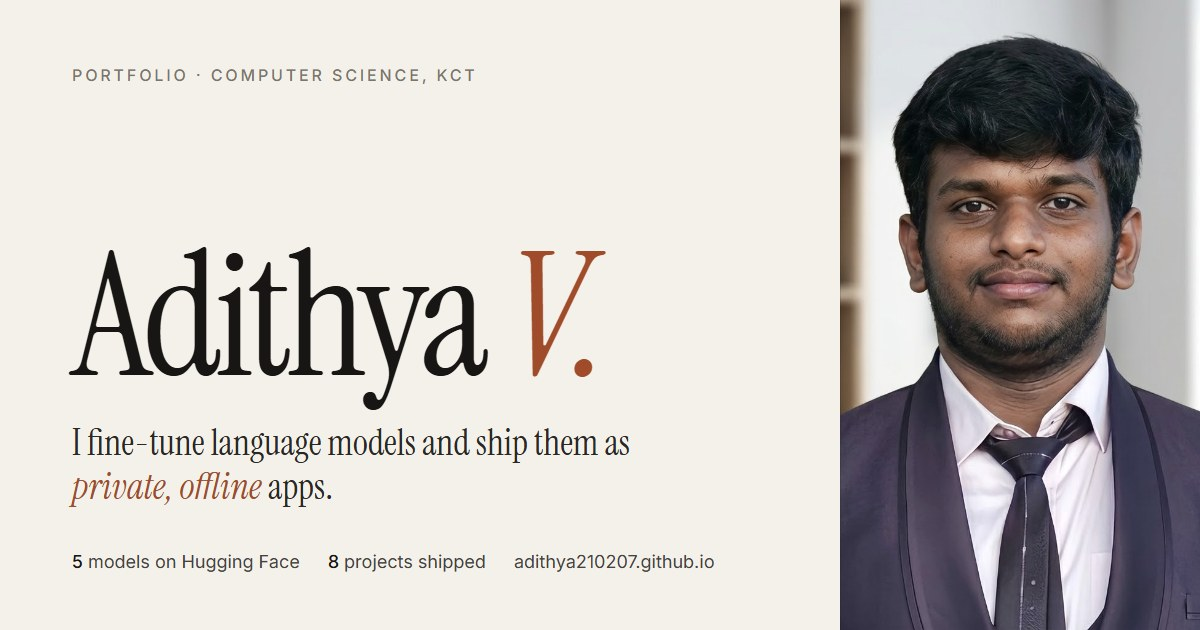
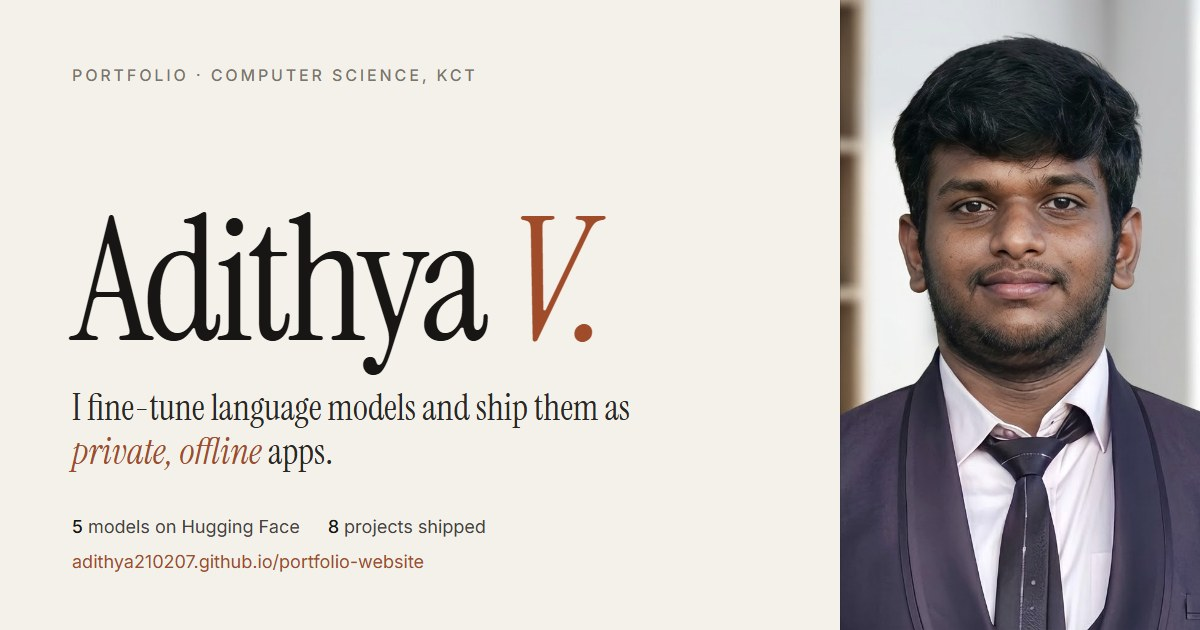
Move the site to /portfolio-website/
The Adithya210207.github.io repo is being retired, so canonical links,
sitemap, robots.txt, link previews, structured data, project pages and the
404 page now use https://adithya210207.github.io/portfolio-website/.

diff --git a/index.html b/index.html
@@ -8,18 +8,18 @@
 <meta property="og:title" content="Adithya V (Ryuu) — AI and full-stack developer, KCT Coimbatore">
 <meta property="og:description" content="Private, offline AI, and the web and firmware around it.">
 <meta property="og:type" content="website">
-<meta property="og:url" content="https://adithya210207.github.io/">
+<meta property="og:url" content="https://adithya210207.github.io/portfolio-website/">
 <meta property="og:site_name" content="Adithya V">
-<meta property="og:image" content="https://adithya210207.github.io/img/share.jpg">
+<meta property="og:image" content="https://adithya210207.github.io/portfolio-website/img/share.jpg">
 <meta property="og:image:width" content="1200">
 <meta property="og:image:height" content="630">
 <meta property="og:image:alt" content="Adithya V. I fine-tune language models and ship them as private, offline apps.">
 <meta name="twitter:card" content="summary_large_image">
 <meta name="twitter:title" content="Adithya V (Ryuu) — AI and full-stack developer, KCT Coimbatore">
 <meta name="twitter:description" content="Private, offline AI, and the web and firmware around it.">
-<meta name="twitter:image" content="https://adithya210207.github.io/img/share.jpg">
-<link rel="canonical" href="https://adithya210207.github.io/">
-<script type="application/ld+json">{"@context":"https://schema.org","@graph":[{"@type":"WebSite","@id":"https://adithya210207.github.io/#site","name":"Adithya V","alternateName":["Adithya V Portfolio","Ryuu"],"url":"https://adithya210207.github.io/"},{"@type":"ProfilePage","@id":"https://adithya210207.github.io/#page","url":"https://adithya210207.github.io/","name":"Adithya V (Ryuu) — AI and full-stack developer, KCT Coimbatore","isPartOf":{"@id":"https://adithya210207.github.io/#site"},"mainEntity":{"@id":"https://adithya210207.github.io/#adithya"},"dateModified":"2026-11-14","hasPart":[{"@type":"WebPage","name":"TQQ Chatbox","url":"https://adithya210207.github.io/projects/tqq-chatbox/"},{"@type":"WebPage","name":"Ryuu Explainer AI","url":"https://adithya210207.github.io/projects/ryuu-explainer-ai/"},{"@type":"WebPage","name":"Personality AI","url":"https://adithya210207.github.io/projects/personality-ai-chatbox/"},{"@type":"WebPage","name":"PawFinder","url":"https://adithya210207.github.io/projects/pawfinder/"},{"@type":"WebPage","name":"Automobile Lab","url":"https://adithya210207.github.io/projects/automobile-lab/"},{"@type":"WebPage","name":"CS GPT for CBSE 11 & 12","url":"https://adithya210207.github.io/projects/cs-gpt/"},{"@type":"WebPage","name":"Ryuu v1 models","url":"https://adithya210207.github.io/projects/ryuu-v1/"}]},{"@type":"Person","@id":"https://adithya210207.github.io/#adithya","name":"Adithya V","alternateName":["Ryuu","Adithya210207","Adithya210207-Ryuu"],"url":"https://adithya210207.github.io/","image":"https://adithya210207.github.io/img/portrait.jpg","jobTitle":"Computer science student, AI and full-stack developer","description":"Fine-tunes language models and ships them as private, offline apps.","email":"mailto:adithya210207.v@gmail.com","alumniOf":{"@type":"CollegeOrUniversity","name":"Kumaraguru College of Technology","alternateName":"KCT"},"address":{"@type":"PostalAddress","addressLocality":"Coimbatore","addressRegion":"Tamil Nadu","addressCountry":"IN"},"knowsAbout":["Fine-tuning language models","QLoRA","Ollama","GGUF","Llama-3","JavaFX","Python","Full-stack web development","ARM Cortex-M4 firmware","Arduino"],"sameAs":["https://github.com/Adithya210207","https://huggingface.co/Adithya210207-Ryuu","https://www.linkedin.com/in/adithya210207/"]}]}</script>
+<meta name="twitter:image" content="https://adithya210207.github.io/portfolio-website/img/share.jpg">
+<link rel="canonical" href="https://adithya210207.github.io/portfolio-website/">
+<script type="application/ld+json">{"@context":"https://schema.org","@graph":[{"@type":"WebSite","@id":"https://adithya210207.github.io/portfolio-website/#site","name":"Adithya V","alternateName":["Adithya V Portfolio","Ryuu"],"url":"https://adithya210207.github.io/portfolio-website/"},{"@type":"ProfilePage","@id":"https://adithya210207.github.io/portfolio-website/#page","url":"https://adithya210207.github.io/portfolio-website/","name":"Adithya V (Ryuu) — AI and full-stack developer, KCT Coimbatore","isPartOf":{"@id":"https://adithya210207.github.io/portfolio-website/#site"},"mainEntity":{"@id":"https://adithya210207.github.io/portfolio-website/#adithya"},"dateModified":"2026-11-14","hasPart":[{"@type":"WebPage","name":"TQQ Chatbox","url":"https://adithya210207.github.io/portfolio-website/projects/tqq-chatbox/"},{"@type":"WebPage","name":"Ryuu Explainer AI","url":"https://adithya210207.github.io/portfolio-website/projects/ryuu-explainer-ai/"},{"@type":"WebPage","name":"Personality AI","url":"https://adithya210207.github.io/portfolio-website/projects/personality-ai-chatbox/"},{"@type":"WebPage","name":"PawFinder","url":"https://adithya210207.github.io/portfolio-website/projects/pawfinder/"},{"@type":"WebPage","name":"Automobile Lab","url":"https://adithya210207.github.io/portfolio-website/projects/automobile-lab/"},{"@type":"WebPage","name":"CS GPT for CBSE 11 & 12","url":"https://adithya210207.github.io/portfolio-website/projects/cs-gpt/"},{"@type":"WebPage","name":"Ryuu v1 models","url":"https://adithya210207.github.io/portfolio-website/projects/ryuu-v1/"}]},{"@type":"Person","@id":"https://adithya210207.github.io/portfolio-website/#adithya","name":"Adithya V","alternateName":["Ryuu","Adithya210207","Adithya210207-Ryuu"],"url":"https://adithya210207.github.io/portfolio-website/","image":"https://adithya210207.github.io/portfolio-website/img/portrait.jpg","jobTitle":"Computer science student, AI and full-stack developer","description":"Fine-tunes language models and ships them as private, offline apps.","email":"mailto:adithya210207.v@gmail.com","alumniOf":{"@type":"CollegeOrUniversity","name":"Kumaraguru College of Technology","alternateName":"KCT"},"address":{"@type":"PostalAddress","addressLocality":"Coimbatore","addressRegion":"Tamil Nadu","addressCountry":"IN"},"knowsAbout":["Fine-tuning language models","QLoRA","Ollama","GGUF","Llama-3","JavaFX","Python","Full-stack web development","ARM Cortex-M4 firmware","Arduino"],"sameAs":["https://github.com/Adithya210207","https://huggingface.co/Adithya210207-Ryuu","https://www.linkedin.com/in/adithya210207/"]}]}</script>
 <meta name="theme-color" content="#f4f1ea">
 <link rel="icon" href="favicon.svg" type="image/svg+xml">
 <link rel="preconnect" href="https://fonts.googleapis.com">

diff --git a/projects/personality-ai-chatbox/index.html b/projects/personality-ai-chatbox/index.html
@@ -6,18 +6,18 @@
 <title>Personality AI Chatbox — anime character AI chatbot | Adithya V</title>
 <meta name="description" content="Personality AI Chatbox by Adithya V: an offline anime character chatbot with five personas, each with its own voice, theme and avatar, a two-character Trio Chat and live streaming replies from a local model.">
 <meta name="author" content="Adithya V">
-<link rel="canonical" href="https://adithya210207.github.io/projects/personality-ai-chatbox/">
+<link rel="canonical" href="https://adithya210207.github.io/portfolio-website/projects/personality-ai-chatbox/">
 <meta property="og:type" content="article">
 <meta property="og:site_name" content="Adithya V">
-<meta property="og:url" content="https://adithya210207.github.io/projects/personality-ai-chatbox/">
+<meta property="og:url" content="https://adithya210207.github.io/portfolio-website/projects/personality-ai-chatbox/">
 <meta property="og:title" content="Personality AI Chatbox — anime character AI chatbot | Adithya V">
 <meta property="og:description" content="Personality AI Chatbox by Adithya V: an offline anime character chatbot with five personas, each with its own voice, theme and avatar, a two-character Trio Chat and live streaming replies from a local model.">
-<meta property="og:image" content="https://adithya210207.github.io/img/work/persona-rem.jpg">
+<meta property="og:image" content="https://adithya210207.github.io/portfolio-website/img/work/persona-rem.jpg">
 <meta property="og:image:alt" content="Chatting with Rem in Personality AI, with her portrait and bond status beside the conversation">
 <meta name="twitter:card" content="summary_large_image">
 <meta name="twitter:title" content="Personality AI Chatbox — anime character AI chatbot | Adithya V">
 <meta name="twitter:description" content="Personality AI Chatbox by Adithya V: an offline anime character chatbot with five personas, each with its own voice, theme and avatar, a two-character Trio Chat and live streaming replies from a local model.">
-<meta name="twitter:image" content="https://adithya210207.github.io/img/work/persona-rem.jpg">
+<meta name="twitter:image" content="https://adithya210207.github.io/portfolio-website/img/work/persona-rem.jpg">
 <meta name="theme-color" content="#f4f1ea">
 <link rel="icon" href="../../favicon.svg" type="image/svg+xml">
 <link rel="preconnect" href="https://fonts.googleapis.com">
@@ -26,8 +26,8 @@
 <link rel="stylesheet" href="../../css/style.css">
 <link rel="stylesheet" href="../project.css">
 <script>try{var t=localStorage.getItem('folio-theme');if(t)document.documentElement.dataset.theme=t}catch(e){}</script>
-<script type="application/ld+json">{"@context":"https://schema.org","@type":"SoftwareApplication","name":"Personality AI","url":"https://adithya210207.github.io/projects/personality-ai-chatbox/","description":"Personality AI Chatbox by Adithya V: an offline anime character chatbot with five personas, each with its own voice, theme and avatar, a two-character Trio Chat and live streaming replies from a local model.","image":"https://adithya210207.github.io/img/work/persona-rem.jpg","applicationCategory":"DeveloperApplication","author":{"@type":"Person","name":"Adithya V","alternateName":["Ryuu","Adithya210207"],"url":"https://adithya210207.github.io/"},"sameAs":["https://github.com/Adithya210207/personality-ai-chatbot"],"offers":{"@type":"Offer","price":"0","priceCurrency":"INR"}}</script>
-<script type="application/ld+json">{"@context":"https://schema.org","@type":"BreadcrumbList","itemListElement":[{"@type":"ListItem","position":1,"name":"Adithya V","item":"https://adithya210207.github.io/"},{"@type":"ListItem","position":2,"name":"Work","item":"https://adithya210207.github.io/#work"},{"@type":"ListItem","position":3,"name":"Personality AI","item":"https://adithya210207.github.io/projects/personality-ai-chatbox/"}]}</script>
+<script type="application/ld+json">{"@context":"https://schema.org","@type":"SoftwareApplication","name":"Personality AI","url":"https://adithya210207.github.io/portfolio-website/projects/personality-ai-chatbox/","description":"Personality AI Chatbox by Adithya V: an offline anime character chatbot with five personas, each with its own voice, theme and avatar, a two-character Trio Chat and live streaming replies from a local model.","image":"https://adithya210207.github.io/portfolio-website/img/work/persona-rem.jpg","applicationCategory":"DeveloperApplication","author":{"@type":"Person","name":"Adithya V","alternateName":["Ryuu","Adithya210207"],"url":"https://adithya210207.github.io/portfolio-website/"},"sameAs":["https://github.com/Adithya210207/personality-ai-chatbot"],"offers":{"@type":"Offer","price":"0","priceCurrency":"INR"}}</script>
+<script type="application/ld+json">{"@context":"https://schema.org","@type":"BreadcrumbList","itemListElement":[{"@type":"ListItem","position":1,"name":"Adithya V","item":"https://adithya210207.github.io/portfolio-website/"},{"@type":"ListItem","position":2,"name":"Work","item":"https://adithya210207.github.io/portfolio-website/#work"},{"@type":"ListItem","position":3,"name":"Personality AI","item":"https://adithya210207.github.io/portfolio-website/projects/personality-ai-chatbox/"}]}</script>
 </head>
 <body class="pp">
 <header class="pp-top">

diff --git a/projects/tqq-chatbox/index.html b/projects/tqq-chatbox/index.html
@@ -6,18 +6,18 @@
 <title>TQQ Chatbox — offline AI chat with the five Nakano sisters | Adithya V</title>
 <meta name="description" content="TQQ Chatbox by Adithya V: a JavaFX desktop app where Ichika, Nino, Miku, Yotsuba and Itsuki from The Quintessential Quintuplets are each their own fine-tuned Llama-3 8B model, running fully offline with Ollama.">
 <meta name="author" content="Adithya V">
-<link rel="canonical" href="https://adithya210207.github.io/projects/tqq-chatbox/">
+<link rel="canonical" href="https://adithya210207.github.io/portfolio-website/projects/tqq-chatbox/">
 <meta property="og:type" content="article">
 <meta property="og:site_name" content="Adithya V">
-<meta property="og:url" content="https://adithya210207.github.io/projects/tqq-chatbox/">
+<meta property="og:url" content="https://adithya210207.github.io/portfolio-website/projects/tqq-chatbox/">
 <meta property="og:title" content="TQQ Chatbox — offline AI chat with the five Nakano sisters | Adithya V">
 <meta property="og:description" content="TQQ Chatbox by Adithya V: a JavaFX desktop app where Ichika, Nino, Miku, Yotsuba and Itsuki from The Quintessential Quintuplets are each their own fine-tuned Llama-3 8B model, running fully offline with Ollama.">
-<meta property="og:image" content="https://adithya210207.github.io/img/work/tqq-home.jpg">
+<meta property="og:image" content="https://adithya210207.github.io/portfolio-website/img/work/tqq-home.jpg">
 <meta property="og:image:alt" content="TQQ Chatbox home screen: five portrait panels, one for each Nakano sister">
 <meta name="twitter:card" content="summary_large_image">
 <meta name="twitter:title" content="TQQ Chatbox — offline AI chat with the five Nakano sisters | Adithya V">
 <meta name="twitter:description" content="TQQ Chatbox by Adithya V: a JavaFX desktop app where Ichika, Nino, Miku, Yotsuba and Itsuki from The Quintessential Quintuplets are each their own fine-tuned Llama-3 8B model, running fully offline with Ollama.">
-<meta name="twitter:image" content="https://adithya210207.github.io/img/work/tqq-home.jpg">
+<meta name="twitter:image" content="https://adithya210207.github.io/portfolio-website/img/work/tqq-home.jpg">
 <meta name="theme-color" content="#f4f1ea">
 <link rel="icon" href="../../favicon.svg" type="image/svg+xml">
 <link rel="preconnect" href="https://fonts.googleapis.com">
@@ -26,8 +26,8 @@
 <link rel="stylesheet" href="../../css/style.css">
 <link rel="stylesheet" href="../project.css">
 <script>try{var t=localStorage.getItem('folio-theme');if(t)document.documentElement.dataset.theme=t}catch(e){}</script>
-<script type="application/ld+json">{"@context":"https://schema.org","@type":"SoftwareApplication","name":"TQQ Chatbox","url":"https://adithya210207.github.io/projects/tqq-chatbox/","description":"TQQ Chatbox by Adithya V: a JavaFX desktop app where Ichika, Nino, Miku, Yotsuba and Itsuki from The Quintessential Quintuplets are each their own fine-tuned Llama-3 8B model, running fully offline with Ollama.","image":"https://adithya210207.github.io/img/work/tqq-home.jpg","applicationCategory":"DeveloperApplication","author":{"@type":"Person","name":"Adithya V","alternateName":["Ryuu","Adithya210207"],"url":"https://adithya210207.github.io/"},"sameAs":["https://github.com/Adithya210207/tqq-chatbox","https://huggingface.co/Adithya210207-Ryuu"],"offers":{"@type":"Offer","price":"0","priceCurrency":"INR"}}</script>
-<script type="application/ld+json">{"@context":"https://schema.org","@type":"BreadcrumbList","itemListElement":[{"@type":"ListItem","position":1,"name":"Adithya V","item":"https://adithya210207.github.io/"},{"@type":"ListItem","position":2,"name":"Work","item":"https://adithya210207.github.io/#work"},{"@type":"ListItem","position":3,"name":"TQQ Chatbox","item":"https://adithya210207.github.io/projects/tqq-chatbox/"}]}</script>
+<script type="application/ld+json">{"@context":"https://schema.org","@type":"SoftwareApplication","name":"TQQ Chatbox","url":"https://adithya210207.github.io/portfolio-website/projects/tqq-chatbox/","description":"TQQ Chatbox by Adithya V: a JavaFX desktop app where Ichika, Nino, Miku, Yotsuba and Itsuki from The Quintessential Quintuplets are each their own fine-tuned Llama-3 8B model, running fully offline with Ollama.","image":"https://adithya210207.github.io/portfolio-website/img/work/tqq-home.jpg","applicationCategory":"DeveloperApplication","author":{"@type":"Person","name":"Adithya V","alternateName":["Ryuu","Adithya210207"],"url":"https://adithya210207.github.io/portfolio-website/"},"sameAs":["https://github.com/Adithya210207/tqq-chatbox","https://huggingface.co/Adithya210207-Ryuu"],"offers":{"@type":"Offer","price":"0","priceCurrency":"INR"}}</script>
+<script type="application/ld+json">{"@context":"https://schema.org","@type":"BreadcrumbList","itemListElement":[{"@type":"ListItem","position":1,"name":"Adithya V","item":"https://adithya210207.github.io/portfolio-website/"},{"@type":"ListItem","position":2,"name":"Work","item":"https://adithya210207.github.io/portfolio-website/#work"},{"@type":"ListItem","position":3,"name":"TQQ Chatbox","item":"https://adithya210207.github.io/portfolio-website/projects/tqq-chatbox/"}]}</script>
 </head>
 <body class="pp">
 <header class="pp-top">

diff --git a/projects/automobile-lab/index.html b/projects/automobile-lab/index.html
@@ -6,18 +6,18 @@
 <title>Automobile Lab — Arduino speedometer to adaptive cruise control | Adithya V</title>
 <meta name="description" content="Automobile Lab by Adithya V: an Arduino and STM32 speedometer grown version by version into adaptive cruise control, with gear modes, a laser time-of-flight sensor and a live Web Serial dashboard.">
 <meta name="author" content="Adithya V">
-<link rel="canonical" href="https://adithya210207.github.io/projects/automobile-lab/">
+<link rel="canonical" href="https://adithya210207.github.io/portfolio-website/projects/automobile-lab/">
 <meta property="og:type" content="article">
 <meta property="og:site_name" content="Adithya V">
-<meta property="og:url" content="https://adithya210207.github.io/projects/automobile-lab/">
+<meta property="og:url" content="https://adithya210207.github.io/portfolio-website/projects/automobile-lab/">
 <meta property="og:title" content="Automobile Lab — Arduino speedometer to adaptive cruise control | Adithya V">
 <meta property="og:description" content="Automobile Lab by Adithya V: an Arduino and STM32 speedometer grown version by version into adaptive cruise control, with gear modes, a laser time-of-flight sensor and a live Web Serial dashboard.">
-<meta property="og:image" content="https://adithya210207.github.io/img/work/automobile-dashboard.jpg">
+<meta property="og:image" content="https://adithya210207.github.io/portfolio-website/img/work/automobile-dashboard.jpg">
 <meta property="og:image:alt" content="The live speedometer dashboard in Sport mode at 56 km/h">
 <meta name="twitter:card" content="summary_large_image">
 <meta name="twitter:title" content="Automobile Lab — Arduino speedometer to adaptive cruise control | Adithya V">
 <meta name="twitter:description" content="Automobile Lab by Adithya V: an Arduino and STM32 speedometer grown version by version into adaptive cruise control, with gear modes, a laser time-of-flight sensor and a live Web Serial dashboard.">
-<meta name="twitter:image" content="https://adithya210207.github.io/img/work/automobile-dashboard.jpg">
+<meta name="twitter:image" content="https://adithya210207.github.io/portfolio-website/img/work/automobile-dashboard.jpg">
 <meta name="theme-color" content="#f4f1ea">
 <link rel="icon" href="../../favicon.svg" type="image/svg+xml">
 <link rel="preconnect" href="https://fonts.googleapis.com">
@@ -26,8 +26,8 @@
 <link rel="stylesheet" href="../../css/style.css">
 <link rel="stylesheet" href="../project.css">
 <script>try{var t=localStorage.getItem('folio-theme');if(t)document.documentElement.dataset.theme=t}catch(e){}</script>
-<script type="application/ld+json">{"@context":"https://schema.org","@type":"SoftwareApplication","name":"Automobile Lab","url":"https://adithya210207.github.io/projects/automobile-lab/","description":"Automobile Lab by Adithya V: an Arduino and STM32 speedometer grown version by version into adaptive cruise control, with gear modes, a laser time-of-flight sensor and a live Web Serial dashboard.","image":"https://adithya210207.github.io/img/work/automobile-dashboard.jpg","applicationCategory":"DeveloperApplication","author":{"@type":"Person","name":"Adithya V","alternateName":["Ryuu","Adithya210207"],"url":"https://adithya210207.github.io/"},"sameAs":["https://github.com/Adithya210207/automobile-lab-projects"],"offers":{"@type":"Offer","price":"0","priceCurrency":"INR"}}</script>
-<script type="application/ld+json">{"@context":"https://schema.org","@type":"BreadcrumbList","itemListElement":[{"@type":"ListItem","position":1,"name":"Adithya V","item":"https://adithya210207.github.io/"},{"@type":"ListItem","position":2,"name":"Work","item":"https://adithya210207.github.io/#work"},{"@type":"ListItem","position":3,"name":"Automobile Lab","item":"https://adithya210207.github.io/projects/automobile-lab/"}]}</script>
+<script type="application/ld+json">{"@context":"https://schema.org","@type":"SoftwareApplication","name":"Automobile Lab","url":"https://adithya210207.github.io/portfolio-website/projects/automobile-lab/","description":"Automobile Lab by Adithya V: an Arduino and STM32 speedometer grown version by version into adaptive cruise control, with gear modes, a laser time-of-flight sensor and a live Web Serial dashboard.","image":"https://adithya210207.github.io/portfolio-website/img/work/automobile-dashboard.jpg","applicationCategory":"DeveloperApplication","author":{"@type":"Person","name":"Adithya V","alternateName":["Ryuu","Adithya210207"],"url":"https://adithya210207.github.io/portfolio-website/"},"sameAs":["https://github.com/Adithya210207/automobile-lab-projects"],"offers":{"@type":"Offer","price":"0","priceCurrency":"INR"}}</script>
+<script type="application/ld+json">{"@context":"https://schema.org","@type":"BreadcrumbList","itemListElement":[{"@type":"ListItem","position":1,"name":"Adithya V","item":"https://adithya210207.github.io/portfolio-website/"},{"@type":"ListItem","position":2,"name":"Work","item":"https://adithya210207.github.io/portfolio-website/#work"},{"@type":"ListItem","position":3,"name":"Automobile Lab","item":"https://adithya210207.github.io/portfolio-website/projects/automobile-lab/"}]}</script>
 </head>
 <body class="pp">
 <header class="pp-top">

diff --git a/projects/ryuu-explainer-ai/index.html b/projects/ryuu-explainer-ai/index.html
@@ -6,18 +6,18 @@
 <title>Ryuu Explainer AI — private offline AI coding assistant | Adithya V</title>
 <meta name="description" content="Ryuu Explainer AI by Adithya V: a private desktop AI that explains concepts, debugs code and writes it in any language, running on local models with Ollama, even on Intel Arc integrated graphics.">
 <meta name="author" content="Adithya V">
-<link rel="canonical" href="https://adithya210207.github.io/projects/ryuu-explainer-ai/">
+<link rel="canonical" href="https://adithya210207.github.io/portfolio-website/projects/ryuu-explainer-ai/">
 <meta property="og:type" content="article">
 <meta property="og:site_name" content="Adithya V">
-<meta property="og:url" content="https://adithya210207.github.io/projects/ryuu-explainer-ai/">
+<meta property="og:url" content="https://adithya210207.github.io/portfolio-website/projects/ryuu-explainer-ai/">
 <meta property="og:title" content="Ryuu Explainer AI — private offline AI coding assistant | Adithya V">
 <meta property="og:description" content="Ryuu Explainer AI by Adithya V: a private desktop AI that explains concepts, debugs code and writes it in any language, running on local models with Ollama, even on Intel Arc integrated graphics.">
-<meta property="og:image" content="https://adithya210207.github.io/img/work/ryuu-chat.jpg">
+<meta property="og:image" content="https://adithya210207.github.io/portfolio-website/img/work/ryuu-chat.jpg">
 <meta property="og:image:alt" content="Ryuu explaining recursion in Python with a worked factorial example, running on qwen2.5-coder 14B">
 <meta name="twitter:card" content="summary_large_image">
 <meta name="twitter:title" content="Ryuu Explainer AI — private offline AI coding assistant | Adithya V">
 <meta name="twitter:description" content="Ryuu Explainer AI by Adithya V: a private desktop AI that explains concepts, debugs code and writes it in any language, running on local models with Ollama, even on Intel Arc integrated graphics.">
-<meta name="twitter:image" content="https://adithya210207.github.io/img/work/ryuu-chat.jpg">
+<meta name="twitter:image" content="https://adithya210207.github.io/portfolio-website/img/work/ryuu-chat.jpg">
 <meta name="theme-color" content="#f4f1ea">
 <link rel="icon" href="../../favicon.svg" type="image/svg+xml">
 <link rel="preconnect" href="https://fonts.googleapis.com">
@@ -26,8 +26,8 @@
 <link rel="stylesheet" href="../../css/style.css">
 <link rel="stylesheet" href="../project.css">
 <script>try{var t=localStorage.getItem('folio-theme');if(t)document.documentElement.dataset.theme=t}catch(e){}</script>
-<script type="application/ld+json">{"@context":"https://schema.org","@type":"SoftwareApplication","name":"Ryuu Explainer AI","url":"https://adithya210207.github.io/projects/ryuu-explainer-ai/","description":"Ryuu Explainer AI by Adithya V: a private desktop AI that explains concepts, debugs code and writes it in any language, running on local models with Ollama, even on Intel Arc integrated graphics.","image":"https://adithya210207.github.io/img/work/ryuu-chat.jpg","applicationCategory":"DeveloperApplication","author":{"@type":"Person","name":"Adithya V","alternateName":["Ryuu","Adithya210207"],"url":"https://adithya210207.github.io/"},"sameAs":["https://github.com/Adithya210207/ryuu-explainer-ai"],"offers":{"@type":"Offer","price":"0","priceCurrency":"INR"}}</script>
-<script type="application/ld+json">{"@context":"https://schema.org","@type":"BreadcrumbList","itemListElement":[{"@type":"ListItem","position":1,"name":"Adithya V","item":"https://adithya210207.github.io/"},{"@type":"ListItem","position":2,"name":"Work","item":"https://adithya210207.github.io/#work"},{"@type":"ListItem","position":3,"name":"Ryuu Explainer AI","item":"https://adithya210207.github.io/projects/ryuu-explainer-ai/"}]}</script>
+<script type="application/ld+json">{"@context":"https://schema.org","@type":"SoftwareApplication","name":"Ryuu Explainer AI","url":"https://adithya210207.github.io/portfolio-website/projects/ryuu-explainer-ai/","description":"Ryuu Explainer AI by Adithya V: a private desktop AI that explains concepts, debugs code and writes it in any language, running on local models with Ollama, even on Intel Arc integrated graphics.","image":"https://adithya210207.github.io/portfolio-website/img/work/ryuu-chat.jpg","applicationCategory":"DeveloperApplication","author":{"@type":"Person","name":"Adithya V","alternateName":["Ryuu","Adithya210207"],"url":"https://adithya210207.github.io/portfolio-website/"},"sameAs":["https://github.com/Adithya210207/ryuu-explainer-ai"],"offers":{"@type":"Offer","price":"0","priceCurrency":"INR"}}</script>
+<script type="application/ld+json">{"@context":"https://schema.org","@type":"BreadcrumbList","itemListElement":[{"@type":"ListItem","position":1,"name":"Adithya V","item":"https://adithya210207.github.io/portfolio-website/"},{"@type":"ListItem","position":2,"name":"Work","item":"https://adithya210207.github.io/portfolio-website/#work"},{"@type":"ListItem","position":3,"name":"Ryuu Explainer AI","item":"https://adithya210207.github.io/portfolio-website/projects/ryuu-explainer-ai/"}]}</script>
 </head>
 <body class="pp">
 <header class="pp-top">

diff --git a/projects/pawfinder/index.html b/projects/pawfinder/index.html
@@ -6,18 +6,18 @@
 <title>PawFinder — dog adoption and rescue platform for India | Adithya V</title>
 <meta name="description" content="PawFinder by Adithya V: a live dog adoption and rescue platform for India, with dog profiles, verified Coimbatore shelters, adoption applications, fostering, emergency helplines and care articles.">
 <meta name="author" content="Adithya V">
-<link rel="canonical" href="https://adithya210207.github.io/projects/pawfinder/">
+<link rel="canonical" href="https://adithya210207.github.io/portfolio-website/projects/pawfinder/">
 <meta property="og:type" content="article">
 <meta property="og:site_name" content="Adithya V">
-<meta property="og:url" content="https://adithya210207.github.io/projects/pawfinder/">
+<meta property="og:url" content="https://adithya210207.github.io/portfolio-website/projects/pawfinder/">
 <meta property="og:title" content="PawFinder — dog adoption and rescue platform for India | Adithya V">
 <meta property="og:description" content="PawFinder by Adithya V: a live dog adoption and rescue platform for India, with dog profiles, verified Coimbatore shelters, adoption applications, fostering, emergency helplines and care articles.">
-<meta property="og:image" content="https://adithya210207.github.io/img/work/pawfinder-discover.jpg">
+<meta property="og:image" content="https://adithya210207.github.io/portfolio-website/img/work/pawfinder-discover.jpg">
 <meta property="og:image:alt" content="PawFinder discover page with urgent dogs, filters and the featured dog">
 <meta name="twitter:card" content="summary_large_image">
 <meta name="twitter:title" content="PawFinder — dog adoption and rescue platform for India | Adithya V">
 <meta name="twitter:description" content="PawFinder by Adithya V: a live dog adoption and rescue platform for India, with dog profiles, verified Coimbatore shelters, adoption applications, fostering, emergency helplines and care articles.">
-<meta name="twitter:image" content="https://adithya210207.github.io/img/work/pawfinder-discover.jpg">
+<meta name="twitter:image" content="https://adithya210207.github.io/portfolio-website/img/work/pawfinder-discover.jpg">
 <meta name="theme-color" content="#f4f1ea">
 <link rel="icon" href="../../favicon.svg" type="image/svg+xml">
 <link rel="preconnect" href="https://fonts.googleapis.com">
@@ -26,8 +26,8 @@
 <link rel="stylesheet" href="../../css/style.css">
 <link rel="stylesheet" href="../project.css">
 <script>try{var t=localStorage.getItem('folio-theme');if(t)document.documentElement.dataset.theme=t}catch(e){}</script>
-<script type="application/ld+json">{"@context":"https://schema.org","@type":"SoftwareApplication","name":"PawFinder","url":"https://adithya210207.github.io/projects/pawfinder/","description":"PawFinder by Adithya V: a live dog adoption and rescue platform for India, with dog profiles, verified Coimbatore shelters, adoption applications, fostering, emergency helplines and care articles.","image":"https://adithya210207.github.io/img/work/pawfinder-discover.jpg","applicationCategory":"WebApplication","author":{"@type":"Person","name":"Adithya V","alternateName":["Ryuu","Adithya210207"],"url":"https://adithya210207.github.io/"},"sameAs":["https://github.com/Adithya210207/pawfinder","https://pawfinder-xvjk.onrender.com/"],"offers":{"@type":"Offer","price":"0","priceCurrency":"INR"}}</script>
-<script type="application/ld+json">{"@context":"https://schema.org","@type":"BreadcrumbList","itemListElement":[{"@type":"ListItem","position":1,"name":"Adithya V","item":"https://adithya210207.github.io/"},{"@type":"ListItem","position":2,"name":"Work","item":"https://adithya210207.github.io/#work"},{"@type":"ListItem","position":3,"name":"PawFinder","item":"https://adithya210207.github.io/projects/pawfinder/"}]}</script>
+<script type="application/ld+json">{"@context":"https://schema.org","@type":"SoftwareApplication","name":"PawFinder","url":"https://adithya210207.github.io/portfolio-website/projects/pawfinder/","description":"PawFinder by Adithya V: a live dog adoption and rescue platform for India, with dog profiles, verified Coimbatore shelters, adoption applications, fostering, emergency helplines and care articles.","image":"https://adithya210207.github.io/portfolio-website/img/work/pawfinder-discover.jpg","applicationCategory":"WebApplication","author":{"@type":"Person","name":"Adithya V","alternateName":["Ryuu","Adithya210207"],"url":"https://adithya210207.github.io/portfolio-website/"},"sameAs":["https://github.com/Adithya210207/pawfinder","https://pawfinder-xvjk.onrender.com/"],"offers":{"@type":"Offer","price":"0","priceCurrency":"INR"}}</script>
+<script type="application/ld+json">{"@context":"https://schema.org","@type":"BreadcrumbList","itemListElement":[{"@type":"ListItem","position":1,"name":"Adithya V","item":"https://adithya210207.github.io/portfolio-website/"},{"@type":"ListItem","position":2,"name":"Work","item":"https://adithya210207.github.io/portfolio-website/#work"},{"@type":"ListItem","position":3,"name":"PawFinder","item":"https://adithya210207.github.io/portfolio-website/projects/pawfinder/"}]}</script>
 </head>
 <body class="pp">
 <header class="pp-top">

diff --git a/projects/cs-gpt/index.html b/projects/cs-gpt/index.html
@@ -6,18 +6,18 @@
 <title>CS GPT for CBSE Class 11 &amp; 12 — Computer Science programs in Python | Adithya V</title>
 <meta name="description" content="CS GPT by Adithya V: the CBSE Class 11 and 12 Computer Science syllabus as runnable Python programs in a VS Code-styled window, each with its source code one key away.">
 <meta name="author" content="Adithya V">
-<link rel="canonical" href="https://adithya210207.github.io/projects/cs-gpt/">
+<link rel="canonical" href="https://adithya210207.github.io/portfolio-website/projects/cs-gpt/">
 <meta property="og:type" content="article">
 <meta property="og:site_name" content="Adithya V">
-<meta property="og:url" content="https://adithya210207.github.io/projects/cs-gpt/">
+<meta property="og:url" content="https://adithya210207.github.io/portfolio-website/projects/cs-gpt/">
 <meta property="og:title" content="CS GPT for CBSE Class 11 &amp; 12 — Computer Science programs in Python | Adithya V">
 <meta property="og:description" content="CS GPT by Adithya V: the CBSE Class 11 and 12 Computer Science syllabus as runnable Python programs in a VS Code-styled window, each with its source code one key away.">
-<meta property="og:image" content="https://adithya210207.github.io/img/work/csgpt-11-menu.jpg">
+<meta property="og:image" content="https://adithya210207.github.io/portfolio-website/img/work/csgpt-11-menu.jpg">
 <meta property="og:image:alt" content="The Class 11 CS GPT menu of seventeen runnable programs in a VS Code-styled terminal">
 <meta name="twitter:card" content="summary_large_image">
 <meta name="twitter:title" content="CS GPT for CBSE Class 11 &amp; 12 — Computer Science programs in Python | Adithya V">
 <meta name="twitter:description" content="CS GPT by Adithya V: the CBSE Class 11 and 12 Computer Science syllabus as runnable Python programs in a VS Code-styled window, each with its source code one key away.">
-<meta name="twitter:image" content="https://adithya210207.github.io/img/work/csgpt-11-menu.jpg">
+<meta name="twitter:image" content="https://adithya210207.github.io/portfolio-website/img/work/csgpt-11-menu.jpg">
 <meta name="theme-color" content="#f4f1ea">
 <link rel="icon" href="../../favicon.svg" type="image/svg+xml">
 <link rel="preconnect" href="https://fonts.googleapis.com">
@@ -26,8 +26,8 @@
 <link rel="stylesheet" href="../../css/style.css">
 <link rel="stylesheet" href="../project.css">
 <script>try{var t=localStorage.getItem('folio-theme');if(t)document.documentElement.dataset.theme=t}catch(e){}</script>
-<script type="application/ld+json">{"@context":"https://schema.org","@type":"SoftwareApplication","name":"CS GPT for CBSE 11 & 12","url":"https://adithya210207.github.io/projects/cs-gpt/","description":"CS GPT by Adithya V: the CBSE Class 11 and 12 Computer Science syllabus as runnable Python programs in a VS Code-styled window, each with its source code one key away.","image":"https://adithya210207.github.io/img/work/csgpt-11-menu.jpg","applicationCategory":"DeveloperApplication","author":{"@type":"Person","name":"Adithya V","alternateName":["Ryuu","Adithya210207"],"url":"https://adithya210207.github.io/"},"sameAs":["https://github.com/Adithya210207/cs-gpt-cbse-11-12"],"offers":{"@type":"Offer","price":"0","priceCurrency":"INR"}}</script>
-<script type="application/ld+json">{"@context":"https://schema.org","@type":"BreadcrumbList","itemListElement":[{"@type":"ListItem","position":1,"name":"Adithya V","item":"https://adithya210207.github.io/"},{"@type":"ListItem","position":2,"name":"Work","item":"https://adithya210207.github.io/#work"},{"@type":"ListItem","position":3,"name":"CS GPT for CBSE 11 & 12","item":"https://adithya210207.github.io/projects/cs-gpt/"}]}</script>
+<script type="application/ld+json">{"@context":"https://schema.org","@type":"SoftwareApplication","name":"CS GPT for CBSE 11 & 12","url":"https://adithya210207.github.io/portfolio-website/projects/cs-gpt/","description":"CS GPT by Adithya V: the CBSE Class 11 and 12 Computer Science syllabus as runnable Python programs in a VS Code-styled window, each with its source code one key away.","image":"https://adithya210207.github.io/portfolio-website/img/work/csgpt-11-menu.jpg","applicationCategory":"DeveloperApplication","author":{"@type":"Person","name":"Adithya V","alternateName":["Ryuu","Adithya210207"],"url":"https://adithya210207.github.io/portfolio-website/"},"sameAs":["https://github.com/Adithya210207/cs-gpt-cbse-11-12"],"offers":{"@type":"Offer","price":"0","priceCurrency":"INR"}}</script>
+<script type="application/ld+json">{"@context":"https://schema.org","@type":"BreadcrumbList","itemListElement":[{"@type":"ListItem","position":1,"name":"Adithya V","item":"https://adithya210207.github.io/portfolio-website/"},{"@type":"ListItem","position":2,"name":"Work","item":"https://adithya210207.github.io/portfolio-website/#work"},{"@type":"ListItem","position":3,"name":"CS GPT for CBSE 11 & 12","item":"https://adithya210207.github.io/portfolio-website/projects/cs-gpt/"}]}</script>
 </head>
 <body class="pp">
 <header class="pp-top">

diff --git a/projects/ryuu-v1/index.html b/projects/ryuu-v1/index.html
@@ -6,18 +6,18 @@
 <title>ryuu_v1 — five fine-tuned Llama-3 8B GGUF models on Hugging Face | Adithya V</title>
 <meta name="description" content="The ryuu_v1 models by Adithya V: Ichika_ryuu_v1, Nino_ryuu_v1, Miku_ryuu_v1, Yotsuba_ryuu_v1 and Itsuki_ryuu_v1, fine-tuned Llama-3 8B character models published as GGUF files for Ollama.">
 <meta name="author" content="Adithya V">
-<link rel="canonical" href="https://adithya210207.github.io/projects/ryuu-v1/">
+<link rel="canonical" href="https://adithya210207.github.io/portfolio-website/projects/ryuu-v1/">
 <meta property="og:type" content="article">
 <meta property="og:site_name" content="Adithya V">
-<meta property="og:url" content="https://adithya210207.github.io/projects/ryuu-v1/">
+<meta property="og:url" content="https://adithya210207.github.io/portfolio-website/projects/ryuu-v1/">
 <meta property="og:title" content="ryuu_v1 — five fine-tuned Llama-3 8B GGUF models on Hugging Face | Adithya V">
 <meta property="og:description" content="The ryuu_v1 models by Adithya V: Ichika_ryuu_v1, Nino_ryuu_v1, Miku_ryuu_v1, Yotsuba_ryuu_v1 and Itsuki_ryuu_v1, fine-tuned Llama-3 8B character models published as GGUF files for Ollama.">
-<meta property="og:image" content="https://adithya210207.github.io/img/work/models-hub.jpg">
+<meta property="og:image" content="https://adithya210207.github.io/portfolio-website/img/work/models-hub.jpg">
 <meta property="og:image:alt" content="My Hugging Face page with the five ryuu_v1 models">
 <meta name="twitter:card" content="summary_large_image">
 <meta name="twitter:title" content="ryuu_v1 — five fine-tuned Llama-3 8B GGUF models on Hugging Face | Adithya V">
 <meta name="twitter:description" content="The ryuu_v1 models by Adithya V: Ichika_ryuu_v1, Nino_ryuu_v1, Miku_ryuu_v1, Yotsuba_ryuu_v1 and Itsuki_ryuu_v1, fine-tuned Llama-3 8B character models published as GGUF files for Ollama.">
-<meta name="twitter:image" content="https://adithya210207.github.io/img/work/models-hub.jpg">
+<meta name="twitter:image" content="https://adithya210207.github.io/portfolio-website/img/work/models-hub.jpg">
 <meta name="theme-color" content="#f4f1ea">
 <link rel="icon" href="../../favicon.svg" type="image/svg+xml">
 <link rel="preconnect" href="https://fonts.googleapis.com">
@@ -26,8 +26,8 @@
 <link rel="stylesheet" href="../../css/style.css">
 <link rel="stylesheet" href="../project.css">
 <script>try{var t=localStorage.getItem('folio-theme');if(t)document.documentElement.dataset.theme=t}catch(e){}</script>
-<script type="application/ld+json">{"@context":"https://schema.org","@type":"SoftwareApplication","name":"Ryuu v1 models","url":"https://adithya210207.github.io/projects/ryuu-v1/","description":"The ryuu_v1 models by Adithya V: Ichika_ryuu_v1, Nino_ryuu_v1, Miku_ryuu_v1, Yotsuba_ryuu_v1 and Itsuki_ryuu_v1, fine-tuned Llama-3 8B character models published as GGUF files for Ollama.","image":"https://adithya210207.github.io/img/work/models-hub.jpg","applicationCategory":"DeveloperApplication","author":{"@type":"Person","name":"Adithya V","alternateName":["Ryuu","Adithya210207"],"url":"https://adithya210207.github.io/"},"sameAs":["https://huggingface.co/Adithya210207-Ryuu"],"offers":{"@type":"Offer","price":"0","priceCurrency":"INR"}}</script>
-<script type="application/ld+json">{"@context":"https://schema.org","@type":"BreadcrumbList","itemListElement":[{"@type":"ListItem","position":1,"name":"Adithya V","item":"https://adithya210207.github.io/"},{"@type":"ListItem","position":2,"name":"Work","item":"https://adithya210207.github.io/#work"},{"@type":"ListItem","position":3,"name":"Ryuu v1 models","item":"https://adithya210207.github.io/projects/ryuu-v1/"}]}</script>
+<script type="application/ld+json">{"@context":"https://schema.org","@type":"SoftwareApplication","name":"Ryuu v1 models","url":"https://adithya210207.github.io/portfolio-website/projects/ryuu-v1/","description":"The ryuu_v1 models by Adithya V: Ichika_ryuu_v1, Nino_ryuu_v1, Miku_ryuu_v1, Yotsuba_ryuu_v1 and Itsuki_ryuu_v1, fine-tuned Llama-3 8B character models published as GGUF files for Ollama.","image":"https://adithya210207.github.io/portfolio-website/img/work/models-hub.jpg","applicationCategory":"DeveloperApplication","author":{"@type":"Person","name":"Adithya V","alternateName":["Ryuu","Adithya210207"],"url":"https://adithya210207.github.io/portfolio-website/"},"sameAs":["https://huggingface.co/Adithya210207-Ryuu"],"offers":{"@type":"Offer","price":"0","priceCurrency":"INR"}}</script>
+<script type="application/ld+json">{"@context":"https://schema.org","@type":"BreadcrumbList","itemListElement":[{"@type":"ListItem","position":1,"name":"Adithya V","item":"https://adithya210207.github.io/portfolio-website/"},{"@type":"ListItem","position":2,"name":"Work","item":"https://adithya210207.github.io/portfolio-website/#work"},{"@type":"ListItem","position":3,"name":"Ryuu v1 models","item":"https://adithya210207.github.io/portfolio-website/projects/ryuu-v1/"}]}</script>
 </head>
 <body class="pp">
 <header class="pp-top">

diff --git a/404.html b/404.html
@@ -6,7 +6,7 @@
 <title>Page not found — Adithya V</title>
 <meta name="robots" content="noindex">
 <meta name="theme-color" content="#f4f1ea">
-<link rel="icon" href="/favicon.svg" type="image/svg+xml">
+<link rel="icon" href="/portfolio-website/favicon.svg" type="image/svg+xml">
 <link rel="preconnect" href="https://fonts.googleapis.com">
 <link rel="preconnect" href="https://fonts.gstatic.com" crossorigin>
 <link href="https://fonts.googleapis.com/css2?family=Instrument+Serif:ital@0;1&family=Inter:wght@400;500&display=swap" rel="stylesheet">
@@ -50,7 +50,7 @@
 </head>
 <body>
   <header class="top">
-    <a class="name" href="/">Adithya V</a>
+    <a class="name" href="/portfolio-website/">Adithya V</a>
     <span class="label">Error 404</span>
   </header>
   <main>
@@ -58,9 +58,9 @@
     <h1>This page <em>wandered off.</em></h1>
     <p class="lead">The link may be old or mistyped. Everything I have built is still on the portfolio.</p>
     <div class="actions">
-      <a class="btn" href="/">Back to the portfolio <span aria-hidden="true">→</span></a>
-      <a class="link" href="/#work">See the work</a>
-      <a class="link" href="/resume.pdf">Résumé</a>
+      <a class="btn" href="/portfolio-website/">Back to the portfolio <span aria-hidden="true">→</span></a>
+      <a class="link" href="/portfolio-website/#work">See the work</a>
+      <a class="link" href="/portfolio-website/resume.pdf">Résumé</a>
       <a class="link" href="https://mail.google.com/mail/?view=cm&amp;fs=1&amp;to=adithya210207.v@gmail.com" target="_blank" rel="noopener">Write to me ↗</a>
     </div>
   </main>

diff --git a/tools/share-card.html b/tools/share-card.html
@@ -18,6 +18,7 @@
   .line em { color: #a04c2a; }
   .foot { margin-top: 40px; display: flex; gap: 28px; font-size: 18px; color: #45423d; }
   .foot b { font-weight: 500; color: #171614; }
+  .url { margin-top: 10px; font-size: 18px; color: #a04c2a; white-space: nowrap; }
   .photo { position: relative; overflow: hidden; }
   .photo img { width: 100%; height: 100%; object-fit: cover; object-position: 50% 22%; filter: grayscale(.15) contrast(1.02); }
   .photo::after { content: ""; position: absolute; inset: 0; box-shadow: inset 1px 0 0 rgba(23,22,20,.14); }
@@ -29,7 +30,8 @@
     <p class="kicker">Portfolio · Computer science, KCT</p>
     <h1>Adithya <em>V.</em></h1>
     <p class="line">I fine-tune language models and ship them as <em>private, offline</em> apps.</p>
-    <p class="foot"><span><b>5</b> models on Hugging Face</span><span><b>8</b> projects shipped</span><span>adithya210207.github.io</span></p>
+    <p class="foot"><span><b>5</b> models on Hugging Face</span><span><b>8</b> projects shipped</span></p>
+    <p class="url">adithya210207.github.io/portfolio-website</p>
   </div>
   <div class="photo"><img src="../img/portrait.jpg" alt=""></div>
 </div>

diff --git a/README.md b/README.md
@@ -2,7 +2,7 @@
 
 My personal portfolio: who I am, the projects I've built, and my certificates and credentials.
 
-**Live:** https://adithya210207.github.io/
+**Live:** https://adithya210207.github.io/portfolio-website/
 
 ---
 
